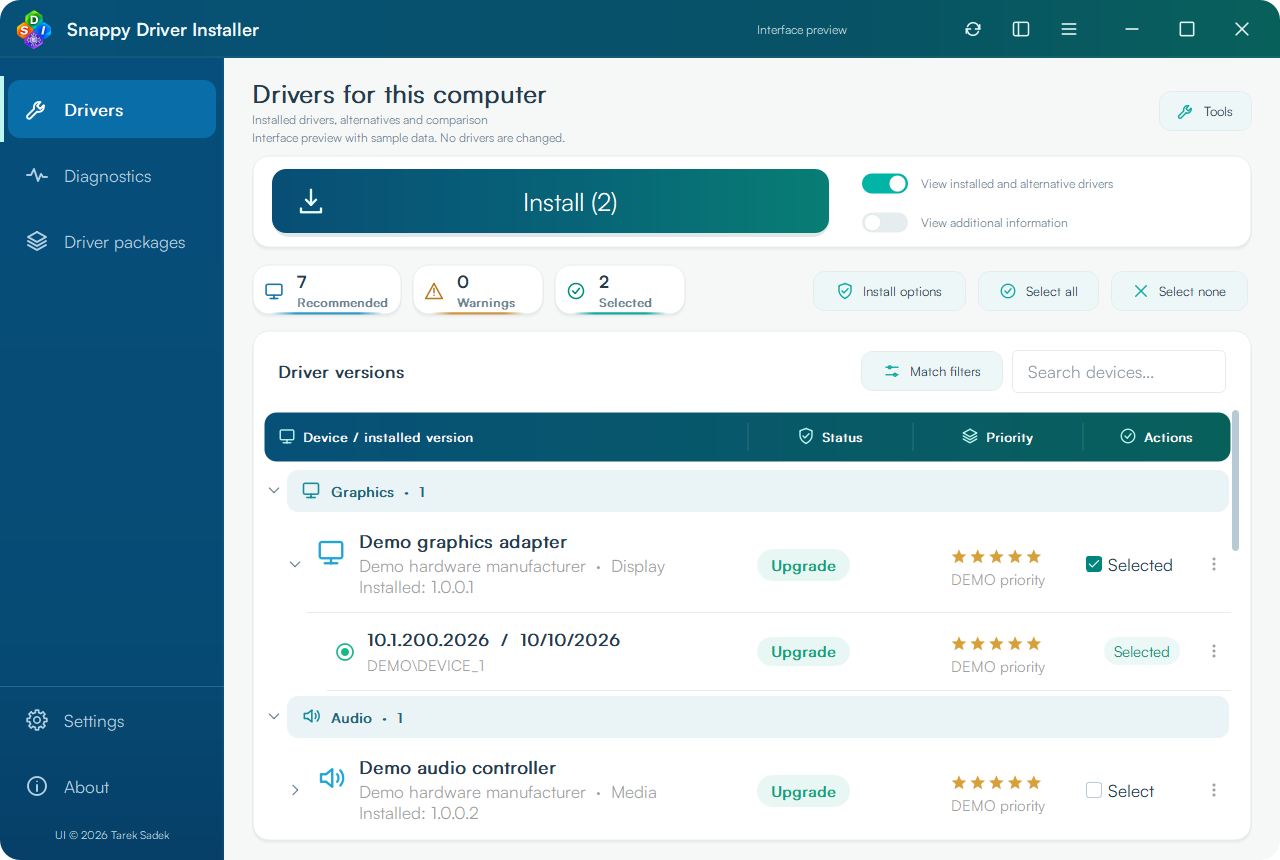
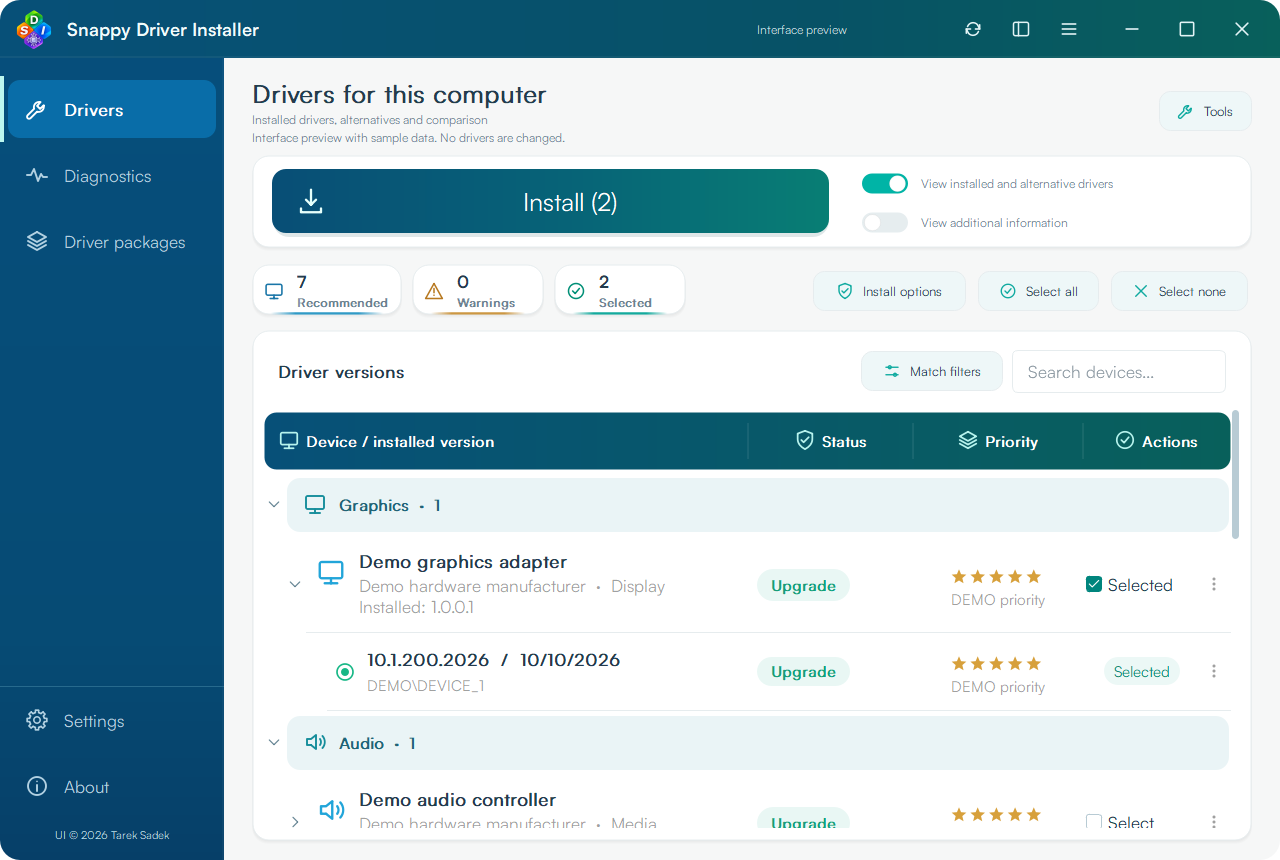
Enlarge category labels and header for clearer visual hierarchy

diff --git a/src/driver_workspace.cpp b/src/driver_workspace.cpp
@@ -50,22 +50,22 @@
 
 // Paint the entire header once so native section backgrounds cannot leave square corners.
 class DriverHeader : public QHeaderView {
-public:explicit DriverHeader(QWidget *parent):QHeaderView(Qt::Horizontal,parent){setFixedHeight(56);viewport()->setAutoFillBackground(false);viewport()->setAttribute(Qt::WA_OpaquePaintEvent,false);}
+public:explicit DriverHeader(QWidget *parent):QHeaderView(Qt::Horizontal,parent){setFixedHeight(64);viewport()->setAutoFillBackground(false);viewport()->setAttribute(Qt::WA_OpaquePaintEvent,false);}
 protected:void paintEvent(QPaintEvent*) Q_DECL_OVERRIDE {
     QPainter p(viewport());p.setRenderHint(QPainter::Antialiasing);const bool dark=Theme::isDark(this),rtl=layoutDirection()==Qt::RightToLeft;
     p.fillRect(viewport()->rect(),Theme::color("surface",dark));
     const QRectF band=QRectF(viewport()->rect()).adjusted(.5,3.5,-.5,-3.5);QLinearGradient fill(band.topLeft(),band.topRight());fill.setColorAt(0,Theme::color("headerStart",dark));fill.setColorAt(1,Theme::color("headerEnd",dark));p.setPen(Qt::NoPen);p.setBrush(fill);p.drawRoundedRect(band,12,12);
     QPainterPath clip;clip.addRoundedRect(band,12,12);p.setClipPath(clip);
-    QFont face=font();face.setFamily(UiFont::family());face.setPixelSize(13);face.setWeight(QFont::DemiBold);p.setFont(face);
+    QFont face=font();face.setFamily(UiFont::family());face.setPixelSize(15);face.setWeight(QFont::DemiBold);p.setFont(face);
     const char *symbols[]={"monitor","shield","layers","check-circle"};
     for(int section=0;section<count();++section){
         if(isSectionHidden(section))continue;const QRect area(sectionViewportPosition(section),4,sectionSize(section),height()-8);
         if(section>0){const int x=rtl?area.right():area.left();p.setPen(QPen(QColor(255,255,255,35),1));p.drawLine(QPointF(x,band.top()+11),QPointF(x,band.bottom()-11));}
-        const QString label=p.fontMetrics().elidedText(model()->headerData(section,Qt::Horizontal).toString(),Qt::ElideRight,qMax(0,area.width()-48));
-        const int textWidth=p.fontMetrics().width(label),total=textWidth+25;
+        const QString label=p.fontMetrics().elidedText(model()->headerData(section,Qt::Horizontal).toString(),Qt::ElideRight,qMax(0,area.width()-52));
+        const int textWidth=p.fontMetrics().width(label),total=textWidth+28;
         const int left=section==0?(rtl?area.right()-total-14:area.left()+14):area.center().x()-total/2;
-        VectorIcons::icon(QString::fromLatin1(symbols[section%4]),QColor("#B6F3ED"),18).paint(&p,QRect(rtl?left+total-18:left,area.center().y()-9,18,18));
-        p.setPen(Qt::white);p.drawText(QRect(rtl?left:left+25,area.top(),textWidth,area.height()),Qt::AlignAbsolute|(rtl?Qt::AlignRight:Qt::AlignLeft)|Qt::AlignVCenter,label);
+        VectorIcons::icon(QString::fromLatin1(symbols[section%4]),QColor("#B6F3ED"),22).paint(&p,QRect(rtl?left+total-22:left,area.center().y()-11,22,22));
+        p.setPen(Qt::white);p.drawText(QRect(rtl?left:left+28,area.top(),textWidth,area.height()),Qt::AlignAbsolute|(rtl?Qt::AlignRight:Qt::AlignLeft)|Qt::AlignVCenter,label);
     }
 }
 };
@@ -511,7 +511,7 @@ void DriverWorkspace::rebuild()
         if (!matchesFilters(row)) continue;
         const DriverEntry &d=m_catalog->entryRef(row);
         const QString category=VectorIcons::deviceCategory(d.device.deviceClass,d.device.name);
-        if(!categories.contains(category)){QTreeWidgetItem *group=new QTreeWidgetItem(m_tree);group->setData(0,Qt::UserRole,-10-categories.size());group->setData(0,Qt::UserRole+1,-2);group->setData(0,Qt::UserRole+13,true);group->setData(0,Qt::UserRole+14,category);group->setFlags(Qt::ItemIsEnabled);group->setSizeHint(0,QSize(0,52));group->setFirstColumnSpanned(true);categories.insert(category,group);}
+        if(!categories.contains(category)){QTreeWidgetItem *group=new QTreeWidgetItem(m_tree);group->setData(0,Qt::UserRole,-10-categories.size());group->setData(0,Qt::UserRole+1,-2);group->setData(0,Qt::UserRole+13,true);group->setData(0,Qt::UserRole+14,category);group->setFlags(Qt::ItemIsEnabled);group->setSizeHint(0,QSize(0,64));group->setFirstColumnSpanned(true);categories.insert(category,group);}
         QTreeWidgetItem *root=new QTreeWidgetItem(categories.value(category));
         root->setData(0,Qt::UserRole,row);
         root->setData(0,Qt::UserRole+1,-1);

diff --git a/src/driver_row_delegate.cpp b/src/driver_row_delegate.cpp
@@ -31,7 +31,7 @@ void DriverRowDelegate::paint(QPainter *p,const QStyleOptionViewItem &option,
     const bool child=index.sibling(index.row(),0).data(Qt::UserRole+1).toInt()>=0,rtl=option.direction==Qt::RightToLeft;
     const int align=Qt::AlignAbsolute|(rtl?Qt::AlignRight:Qt::AlignLeft);
     const int col=index.column();
-    if(index.data(Qt::UserRole+13).toBool()){p->save();p->setRenderHint(QPainter::Antialiasing);const bool dark=option.palette.color(QPalette::Base).lightness()<130;const QRect area=option.rect.adjusted(2,5,-2,-5);p->setPen(Qt::NoPen);p->setBrush(dark?QColor("#244555"):QColor("#EAF4F6"));p->drawRoundedRect(area,11,11);QFont face=option.font;face.setFamily(UiFont::family());face.setPixelSize(14);face.setWeight(QFont::DemiBold);p->setFont(face);p->setPen(dark?QColor("#A9E4DE"):QColor("#206477"));const QString category=index.data(Qt::UserRole+14).toString();VectorIcons::icon(VectorIcons::forDeviceClass(category),dark?QColor("#7AD4CA"):QColor("#168D9B"),20).paint(p,QRect(rtl?area.right()-34:area.left()+14,area.center().y()-10,20,20));p->drawText(area.adjusted(rtl?14:44,0,rtl?-44:-14,0),align|Qt::AlignVCenter,index.data().toString());p->restore();return;}
+    if(index.data(Qt::UserRole+13).toBool()){p->save();p->setRenderHint(QPainter::Antialiasing);const bool dark=option.palette.color(QPalette::Base).lightness()<130;const QRect area=option.rect.adjusted(2,5,-2,-5);p->setPen(Qt::NoPen);p->setBrush(dark?QColor("#244555"):QColor("#EAF4F6"));p->drawRoundedRect(area,13,13);QFont face=option.font;face.setFamily(UiFont::family());face.setPixelSize(16);face.setWeight(QFont::DemiBold);p->setFont(face);p->setPen(dark?QColor("#A9E4DE"):QColor("#206477"));const QString category=index.data(Qt::UserRole+14).toString();VectorIcons::icon(VectorIcons::forDeviceClass(category),dark?QColor("#7AD4CA"):QColor("#168D9B"),24).paint(p,QRect(rtl?area.right()-40:area.left()+16,area.center().y()-12,24,24));p->drawText(area.adjusted(rtl?16:52,0,rtl?-52:-16,0),align|Qt::AlignVCenter,index.data().toString());p->restore();return;}
     QStyleOptionViewItem rowOption(option);
     // The tree paints a single rounded full-row surface, including branches and actions.
     rowOption.state &= ~(QStyle::State_MouseOver|QStyle::State_Selected|QStyle::State_HasFocus);
